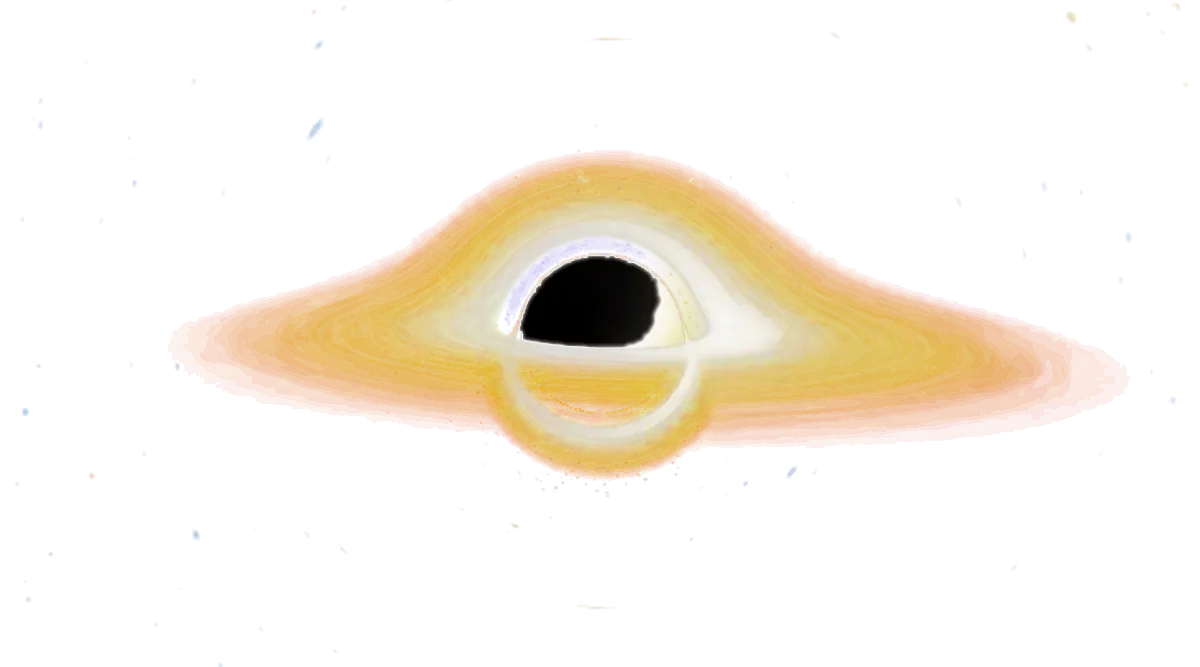
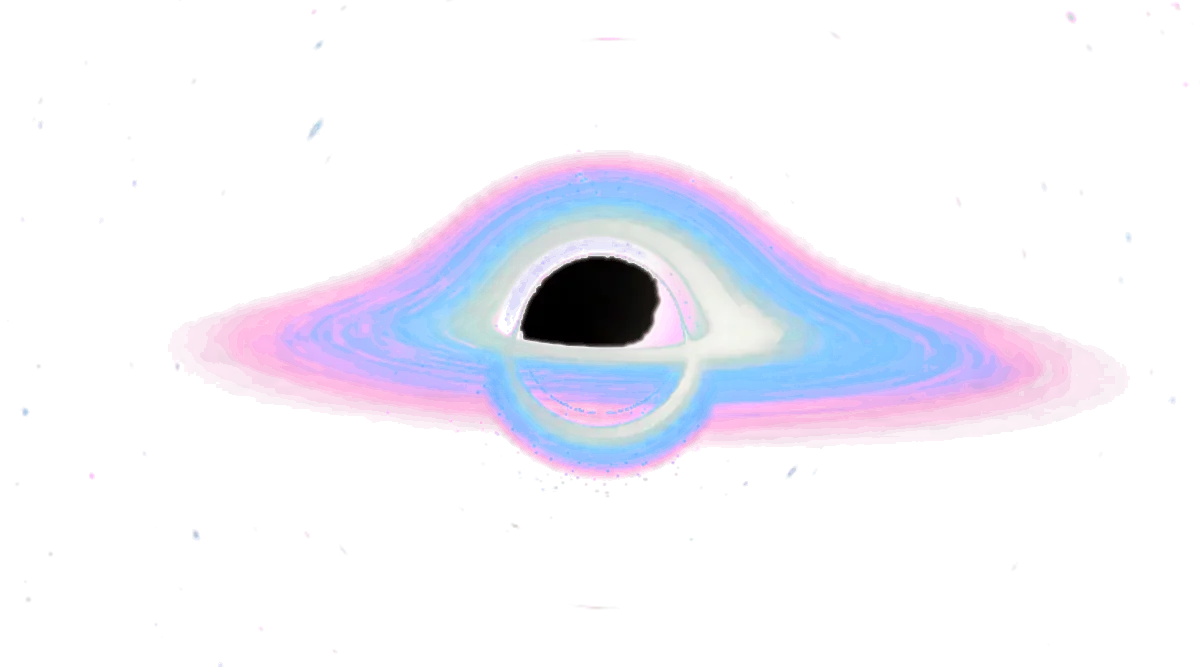
Inner pages: a sky of their own round a misty reading panel; blue-pink black hole (#19)
The page no longer ends in blank margins. Every inner page now sits in a
fixed night sky: three layers of twinkling stars and nebula clouds made of
fractal noise that drift slowly. Each page has its own environment:
- Blogs: rose and violet
- Papers: lamp-gold and teal
- Gallery: wide blue
- Moments: torn cyan and lilac
- About: the disk's blue and rose
- Posts: a Milky Way band
- Guestbook: the pulsar's supernova remnant
- Friends: far galaxies

The content reads in a dawn-lit panel down the middle. Its edges are a
blurred soft slab, so they dissolve into the sky with no frame; on phones
the panel spans the width and melts only at top and bottom.

The black hole's accretion disk is now blue-white at the inner edge and
rose at the rim, with Doppler tint: the side moving toward us is bluer and
brighter, the receding side pinker. The still fallback and eyepiece images
are recoloured to match.

Claude-Session: https://claude.ai/code/session_01EX2fcRM11kv9xBZ3WURKiN

Changed region(s): [[0.1542, 0.2099, 0.8942, 0.7196]]

diff --git a/src/styles/components/sky-backdrop.css b/src/styles/components/sky-backdrop.css
@@ -1,0 +1,131 @@
+/* The sky behind every inner page (src/components/sky/SkyBackdrop.astro) and the misty panel the
+   page is read in (.sky-dawn in src/components/sky/SkyPage.astro). */
+
+.sky-backdrop {
+  position: fixed;
+  inset: 0;
+  z-index: -1;
+  overflow: hidden;
+  pointer-events: none;
+  background:
+    radial-gradient(120% 80% at 50% 110%, rgb(40 30 90 / 0.55), transparent 60%),
+    linear-gradient(180deg, #05061a 0%, #080a22 55%, #0d0d2b 100%);
+}
+
+.sky-nebula {
+  position: absolute;
+  inset: -4%;
+  width: 108%;
+  height: 108%;
+  opacity: 0.9;
+}
+
+/* Each cloud drifts on its own long, slow loop. */
+.sky-cloud {
+  transform-box: view-box;
+  transform-origin: 50% 50%;
+  animation: sky-cloud-drift var(--drift) ease-in-out var(--delay) infinite alternate;
+  will-change: transform;
+}
+
+@keyframes sky-cloud-drift {
+  from {
+    transform: translate(-18px, 10px) scale(1);
+  }
+
+  to {
+    transform: translate(22px, -14px) scale(1.04);
+  }
+}
+
+.sky-stars {
+  position: absolute;
+  top: 0;
+  left: 0;
+  width: 1px;
+  height: 1px;
+  border-radius: 50%;
+}
+
+.sky-stars-1 {
+  animation: sky-stars-breathe 5.5s ease-in-out infinite alternate;
+}
+
+.sky-stars-2 {
+  animation: sky-stars-breathe 3.4s ease-in-out -1.2s infinite alternate;
+}
+
+@keyframes sky-stars-breathe {
+  from {
+    opacity: 1;
+  }
+
+  to {
+    opacity: 0.35;
+  }
+}
+
+/* ---- The reading panel: dawn light with edges that dissolve into the sky ---- */
+.sky-dawn {
+  --feather: 9rem;
+  --panel: rgb(251 246 251 / 0.93);
+  --panel-glow: rgb(247 198 221 / 0.55);
+  position: relative;
+  width: min(100%, 80rem);
+  margin: -5rem auto 0;
+  padding-top: 5rem;
+  padding-bottom: 7rem;
+  isolation: isolate;
+}
+
+.sky-dawn:has(.has-toc) {
+  width: min(100%, 90rem);
+}
+
+.sky-dawn::before {
+  /* A soft-edged slab of light: blurring a rounded box gives a Gaussian falloff with no visible
+     inner edge, so the panel dissolves into the sky like mist rather than ending in a frame. */
+  position: absolute;
+  inset: calc(var(--feather) * 0.35) calc(var(--feather) * -0.15);
+  z-index: -1;
+  border-radius: calc(var(--feather) * 0.8);
+  background:
+    radial-gradient(70% 22rem at 50% 0, var(--panel-glow), transparent 75%),
+    linear-gradient(180deg, rgb(242 228 241 / 0.9) 0, var(--panel) 18rem);
+  filter: blur(calc(var(--feather) * 0.42));
+  content: '';
+}
+
+.dark .sky-dawn {
+  --panel: rgb(14 16 40 / 0.74);
+  --panel-glow: rgb(120 90 200 / 0.22);
+}
+
+.dark .sky-dawn::before {
+  background:
+    radial-gradient(70% 22rem at 50% 0, var(--panel-glow), transparent 75%),
+    linear-gradient(180deg, rgb(20 18 50 / 0.7) 0, var(--panel) 18rem);
+}
+
+@media (max-width: 768px) {
+  .sky-dawn {
+    --feather: 5rem;
+  }
+
+  /* On a phone the panel takes the full width; only its top and bottom melt into the sky. */
+  .sky-dawn::before {
+    inset: calc(var(--feather) * 0.35) -2rem;
+  }
+}
+
+@media (prefers-reduced-motion: reduce) {
+  .sky-cloud,
+  .sky-stars {
+    animation: none;
+  }
+}
+
+html.motion-off .sky-cloud,
+html.motion-off .sky-stars {
+  animation: none;
+}

diff --git a/src/styles/components/sky-page.css b/src/styles/components/sky-page.css
@@ -1,22 +1,12 @@
-/* Inner pages: night at the top (SkyHero), dawn below for reading (src/components/sky/SkyPage.astro). */
+/* Inner pages (src/components/sky/SkyPage.astro): a night sky all round (sky-backdrop.css), the
+   page's object at the top, and the reading area in a misty dawn-lit panel down the middle. */
 .sky-page {
   --night: #05061a;
-  --dawn-top: #f2e4f1;
-  background: var(--gradient-bg-end);
-}
-
-.dark .sky-page {
-  --dawn-top: #0c0e27;
-  background: var(--gradient-bg-start);
-}
-
-/* The reading area picks up exactly where the hero's sky ends, then settles into daylight. */
-.sky-dawn {
-  background: linear-gradient(180deg, var(--dawn-top) 0, #f8f0f7 12rem, #f7f8fc 34rem, var(--gradient-bg-end) 60rem);
-}
-
-.dark .sky-dawn {
-  background: linear-gradient(180deg, var(--dawn-top) 0, #12142f 24rem, var(--gradient-bg-start) 60rem);
+  position: relative;
+  min-height: 100vh;
+  overflow-x: clip;
+  isolation: isolate;
+  background: #06071a;
 }
 
 /* ---- Hero ---- */
@@ -29,16 +19,8 @@
   align-items: center;
   overflow: hidden;
   isolation: isolate;
-  background:
-    radial-gradient(55% 50% at 70% 42%, rgb(78 66 160 / 0.32), transparent 70%),
-    linear-gradient(180deg, var(--night) 0%, #0a0c28 50%, #1b1e50 68%, #5f5799 82%, #c3add6 93%, var(--dawn-top) 100%);
+  background: radial-gradient(55% 50% at 70% 42%, rgb(78 66 160 / 0.22), transparent 70%);
   color: #f4f2ff;
-}
-
-.dark .sky-hero {
-  background:
-    radial-gradient(55% 50% at 70% 42%, rgb(78 66 160 / 0.32), transparent 70%),
-    linear-gradient(180deg, var(--night) 0%, #0a0c28 62%, var(--dawn-top) 100%);
 }
 
 .sky-hero.is-compact {
@@ -280,7 +262,6 @@
 .sky-body {
   display: grid;
   width: 100%;
-  max-width: 76rem;
   margin: 0 auto;
   padding: 1.5rem clamp(1.25rem, 5vw, 3rem) 5rem;
   gap: 3rem;
@@ -306,7 +287,6 @@
 
 @media (min-width: 1280px) {
   .sky-body.has-toc {
-    max-width: 86rem;
     grid-template-columns: minmax(0, 1fr) 15rem;
   }
 

diff --git a/src/components/home/galaxy-flight/black-hole-pass.ts b/src/components/home/galaxy-flight/black-hole-pass.ts
@@ -105,14 +105,18 @@ vec4 disk(vec3 p, vec3 dir) {
   // Slowly boiling turbulence on top of the flow, so the gas never looks like a turning picture.
   float boil = noise3(vec3(cos(theta) * 3.0, sin(theta) * 3.0, r * 2.0 + u_time * 0.9));
   float density = profile * (0.3 + 1.2 * streaks * (0.65 + 0.7 * fine)) * (0.82 + 0.36 * boil);
-  vec3 color = mix(vec3(1.0, 0.94, 0.84), vec3(1.0, 0.62, 0.27), smoothstep(0.0, 0.4, t));
-  color = mix(color, vec3(0.78, 0.27, 0.1), smoothstep(0.4, 1.0, t));
-  // Relativistic beaming: the side of the disk moving towards us is brighter.
+  // Blue-white heat at the inner edge, cooling through periwinkle to rose at the rim.
+  vec3 color = mix(vec3(0.72, 0.84, 1.0), vec3(0.28, 0.5, 1.0), smoothstep(0.0, 0.3, t));
+  color = mix(color, vec3(1.0, 0.28, 0.68), smoothstep(0.28, 0.9, t));
+  // Relativistic beaming: the side of the disk moving towards us is brighter, and Doppler-shifted
+  // bluer; the receding side dims and turns pinker.
   vec3 orbit = normalize(vec3(-p.z, 0.0, p.x));
   float beta = clamp(0.62 / sqrt(r), 0.0, 0.6);
   float g = sqrt(1.0 - beta * beta) / (1.0 - beta * dot(orbit, -dir));
   float beaming = mix(1.0, g * g * g, 0.6);
-  return vec4(color * density * 1.6 * beaming, clamp(density * 1.8, 0.0, 0.97));
+  float shift = clamp((g - 1.0) * 1.4, -1.0, 1.0);
+  color = mix(color, shift > 0.0 ? vec3(0.3, 0.55, 1.0) : vec3(1.0, 0.3, 0.68), abs(shift) * 0.55);
+  return vec4(color * density * 1.25 * beaming, clamp(density * 1.8, 0.0, 0.97));
 }
 
 vec3 sky(vec3 direction) {

diff --git a/src/lib/sky-catalog.ts b/src/lib/sky-catalog.ts
@@ -109,3 +109,6 @@ export interface ChartStar {
   /** Rough length of the piece, in characters; sets the star's size. */
   weight: number;
 }
+
+/** The sky behind an inner page (src/components/sky/SkyBackdrop.astro): one per stop, plus a few of its own. */
+export type SkyEnvironment = 'rose' | 'gold' | 'ring' | 'cloud' | 'disk' | 'milkyway' | 'remnant' | 'group';
